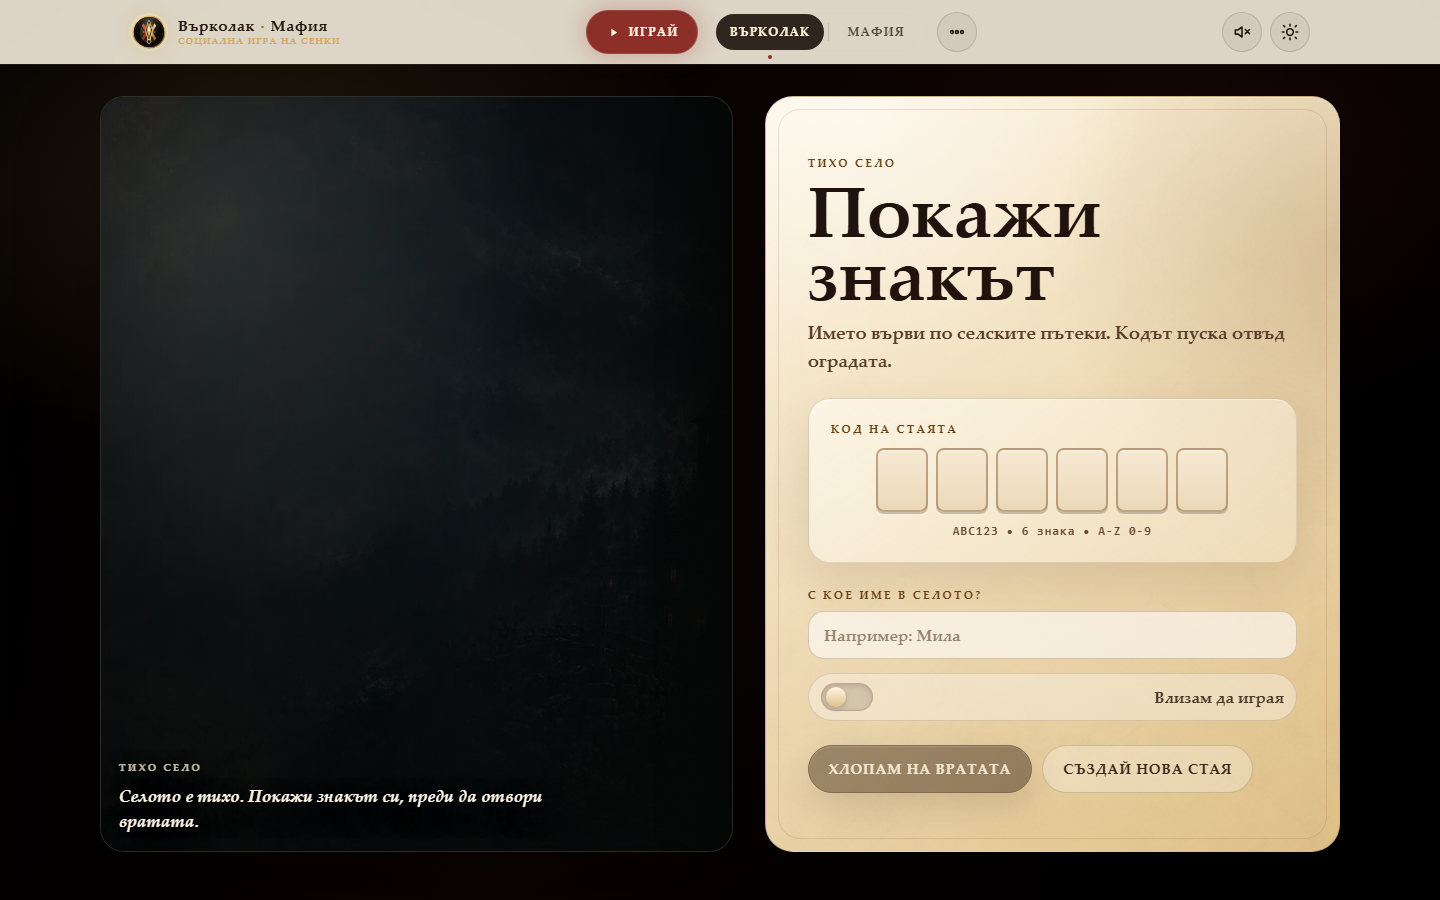
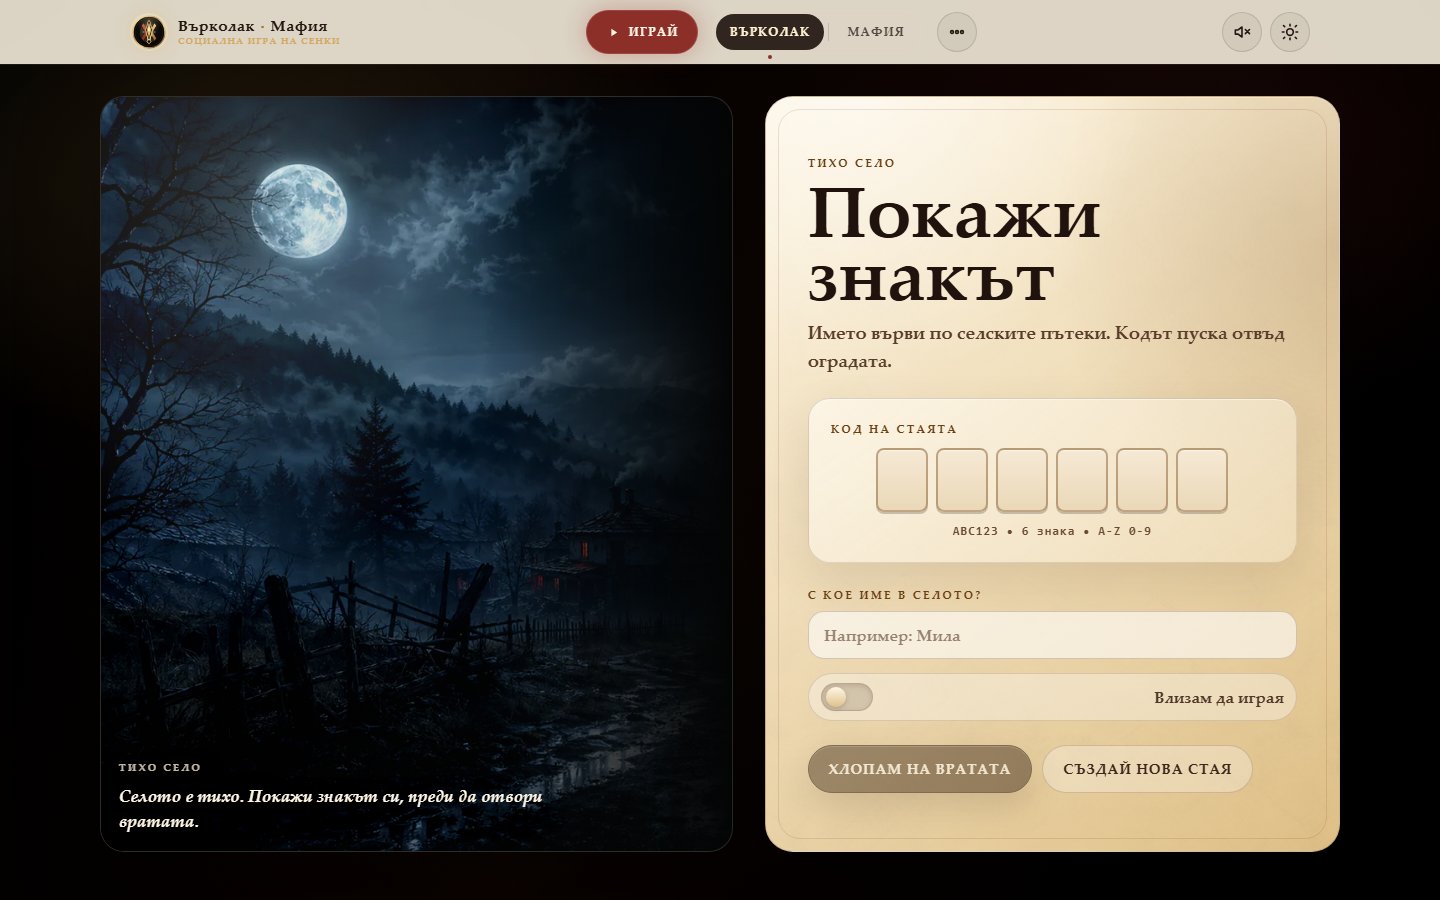
fix(join): improve werewolf side art

diff --git a/apps/web/app/globals.css b/apps/web/app/globals.css
@@ -2280,8 +2280,8 @@ html[data-theme="light"] .landing-hero-card::before {
   --accent-strong: #6b3f10;
   --accent-soft: rgba(107, 63, 16, 0.18);
   --family-tagline: "Тиха гора, тихи стъпки. Шепни кода.";
-  --join-art: image-set(url("/game-art/werewolf/bg-hero-v2.webp") type("image/webp"), url("/game-art/werewolf/bg-hero-v2.png") type("image/png"));
-  --join-art-position: center top;
+  --join-art: image-set(url("/game-art/bg-night-phase.webp") type("image/webp"), url("/game-art/bg-night-phase.png") type("image/png"));
+  --join-art-position: left center;
 }
 
 .join-side-art {
@@ -2306,6 +2306,16 @@ html[data-theme="light"] .landing-hero-card::before {
   filter: saturate(1.04) contrast(1.02);
   -webkit-mask-image: linear-gradient(to bottom, black 62%, transparent 100%);
   mask-image: linear-gradient(to bottom, black 62%, transparent 100%);
+}
+
+.join-stage[data-theme="werewolves"] .join-side-art::before {
+  filter: saturate(1.18) contrast(1.08) brightness(1.18);
+}
+
+.join-stage[data-theme="werewolves"] .join-side-art::after {
+  background:
+    radial-gradient(ellipse at 22% 12%, rgba(248, 236, 210, 0.18), transparent 18rem),
+    linear-gradient(90deg, rgba(8, 10, 10, 0.02), rgba(8, 10, 10, 0.36));
 }
 
 .join-side-art::after {